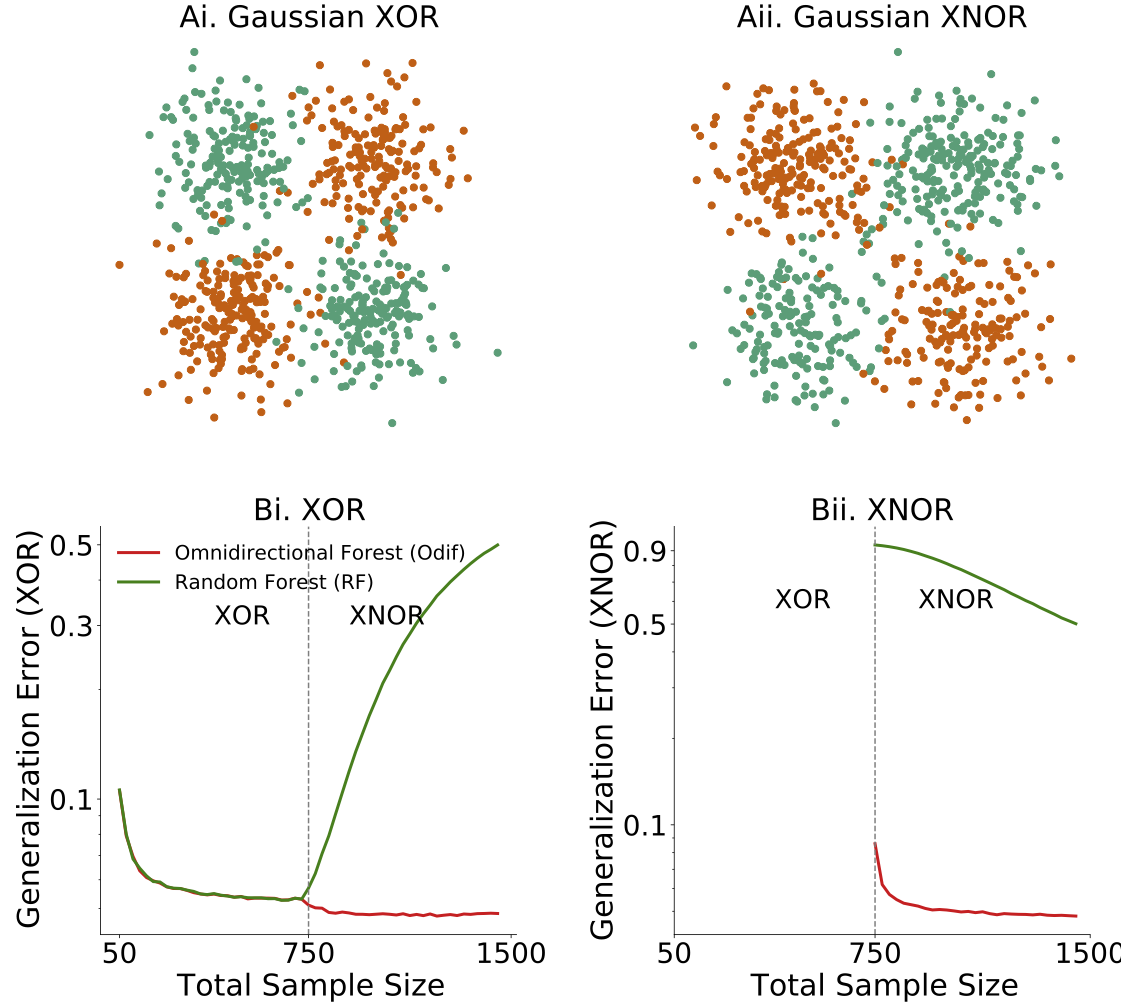
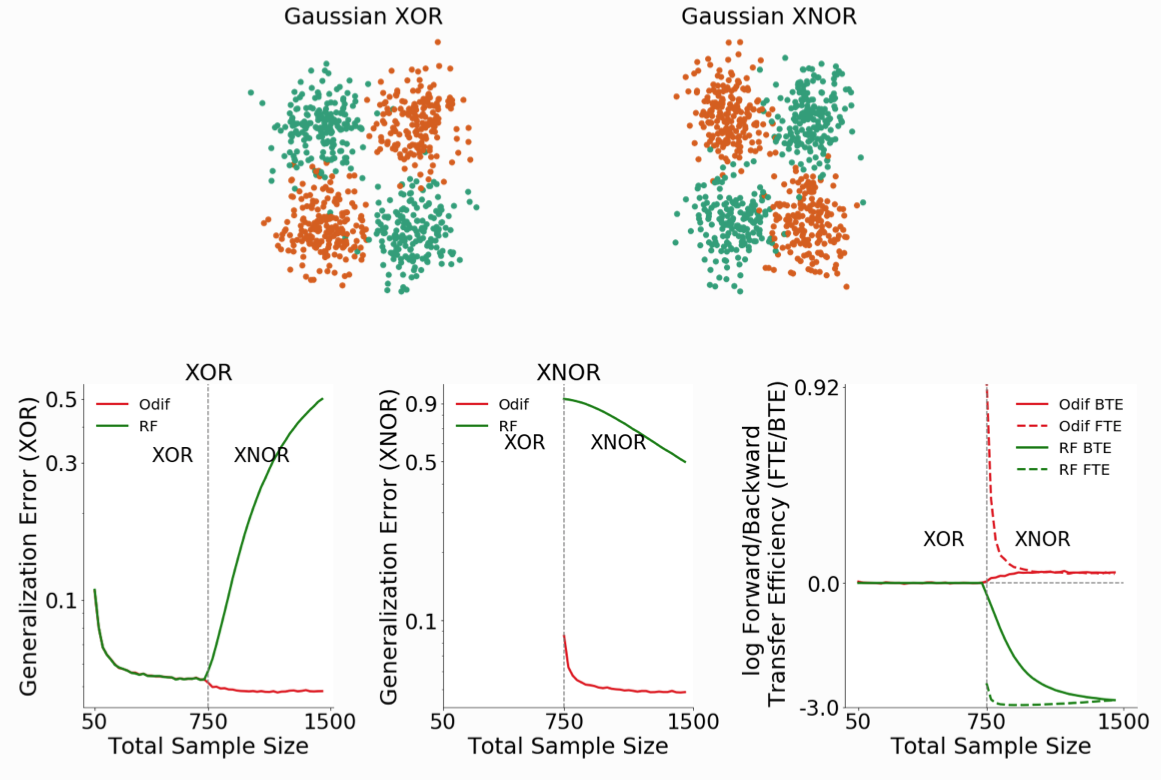
edited slides

diff --git a/jovo_slides_ali_jayanta.html b/jovo_slides_ali_jayanta.html
@@ -16,7 +16,7 @@
 
 
 
-### Lifelong Learning through Random Forests
+### Omnidirectional Lifelong Learning via Representer Ensembling
 
 
 [JHU](https://www.jhu.edu/): Jayanta Dey | Ali Geisa | Hayden Helm  | Ronak Mehta | Will LeVine |
@@ -75,9 +75,9 @@ $$ w : \mathcal{V} \to \mathcal{A}$$
 ![:scale 100%](images/learning_schema_new.png)
 
 ---
-### Simulation study
+### Omnidirectional Algorithms can Transfer Between XOR and XNOR 
 
-![:scale 80%](images/xor_xnor_exp.png)
+![:scale 100%](images/xor_xnor_exp.png)
 ---
 ### CIFAR 10x10
 
@@ -95,8 +95,12 @@ $$ w : \mathcal{V} \to \mathcal{A}$$
 ]
 
 ---
-### CIFAR 10x10 Results
-![:scale 115%](images/cifar_exp.png)
+### Omnidirectional Algorithms Show Forward Transfer for the CIFAR 10x10 Tasks
+![:scale 115%](images/cifar_exp_fte.png)
+
+---
+### Omnidirectional Algorithms Uniquely Show Backward Transfer for Each CIFAR 10x10 Task
+![:scale 115%](images/cifar_exp_bte.png)
 
 ---
 ### Acknowledgements
